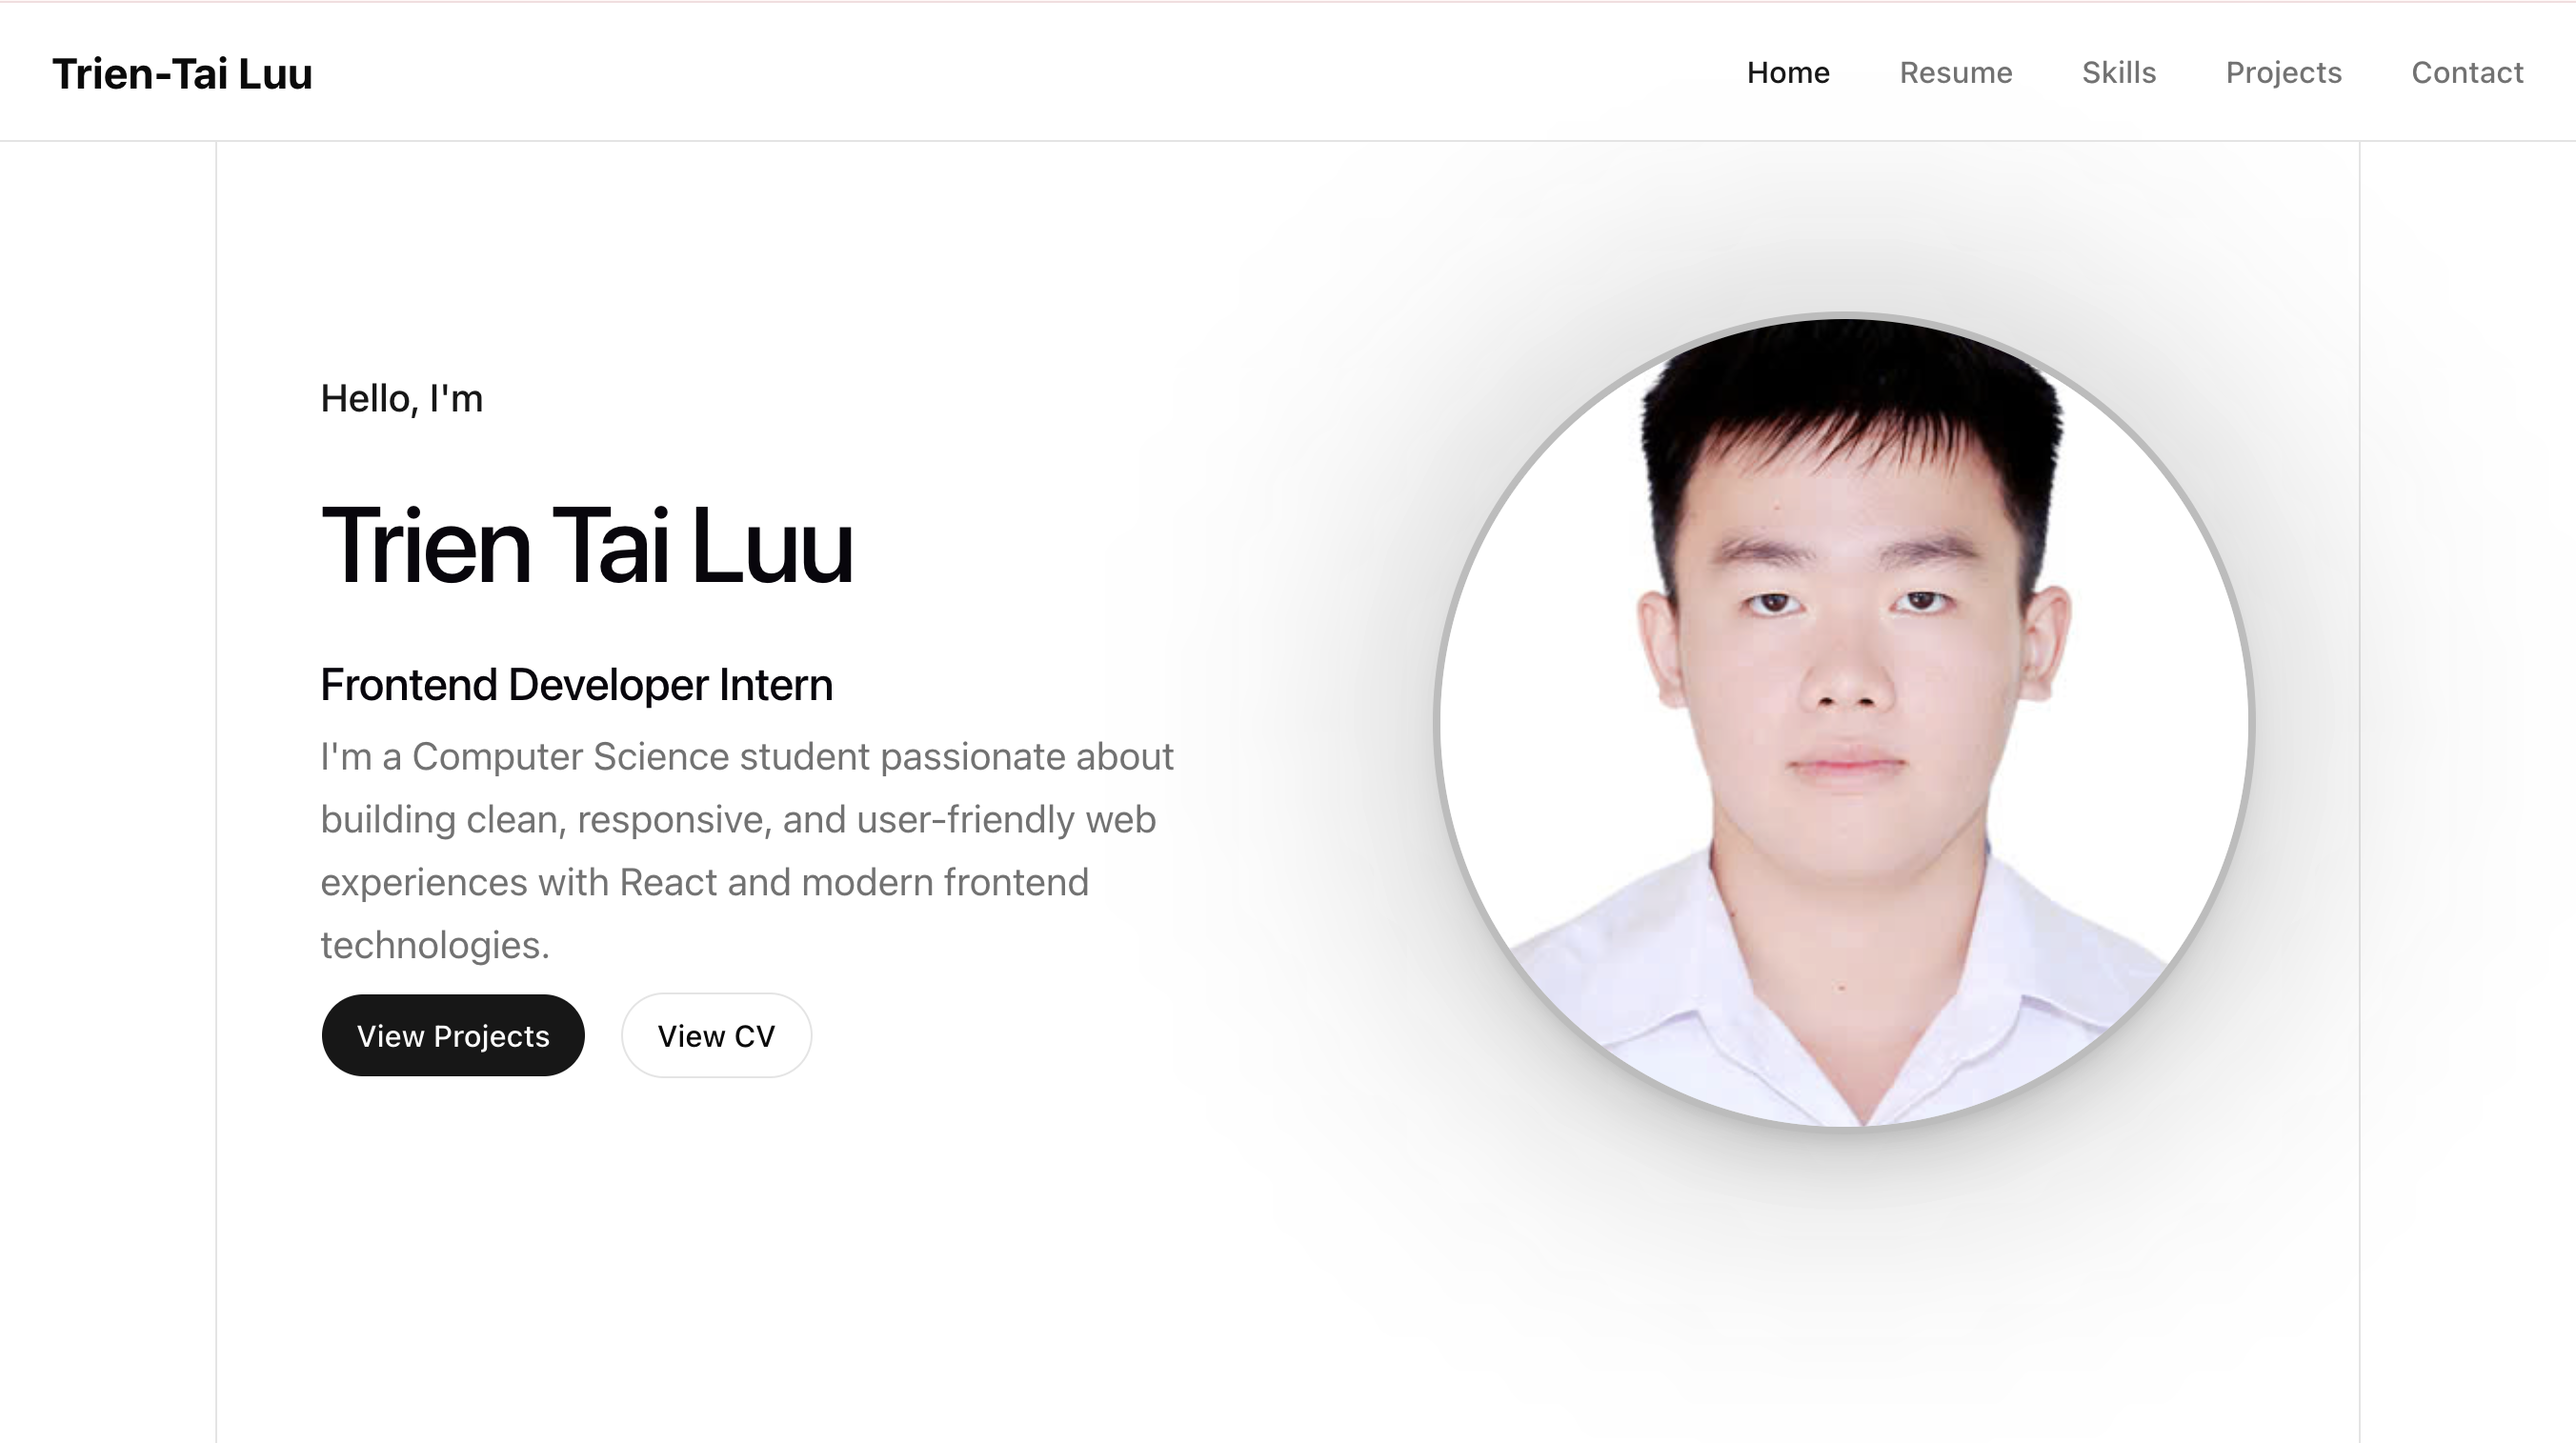
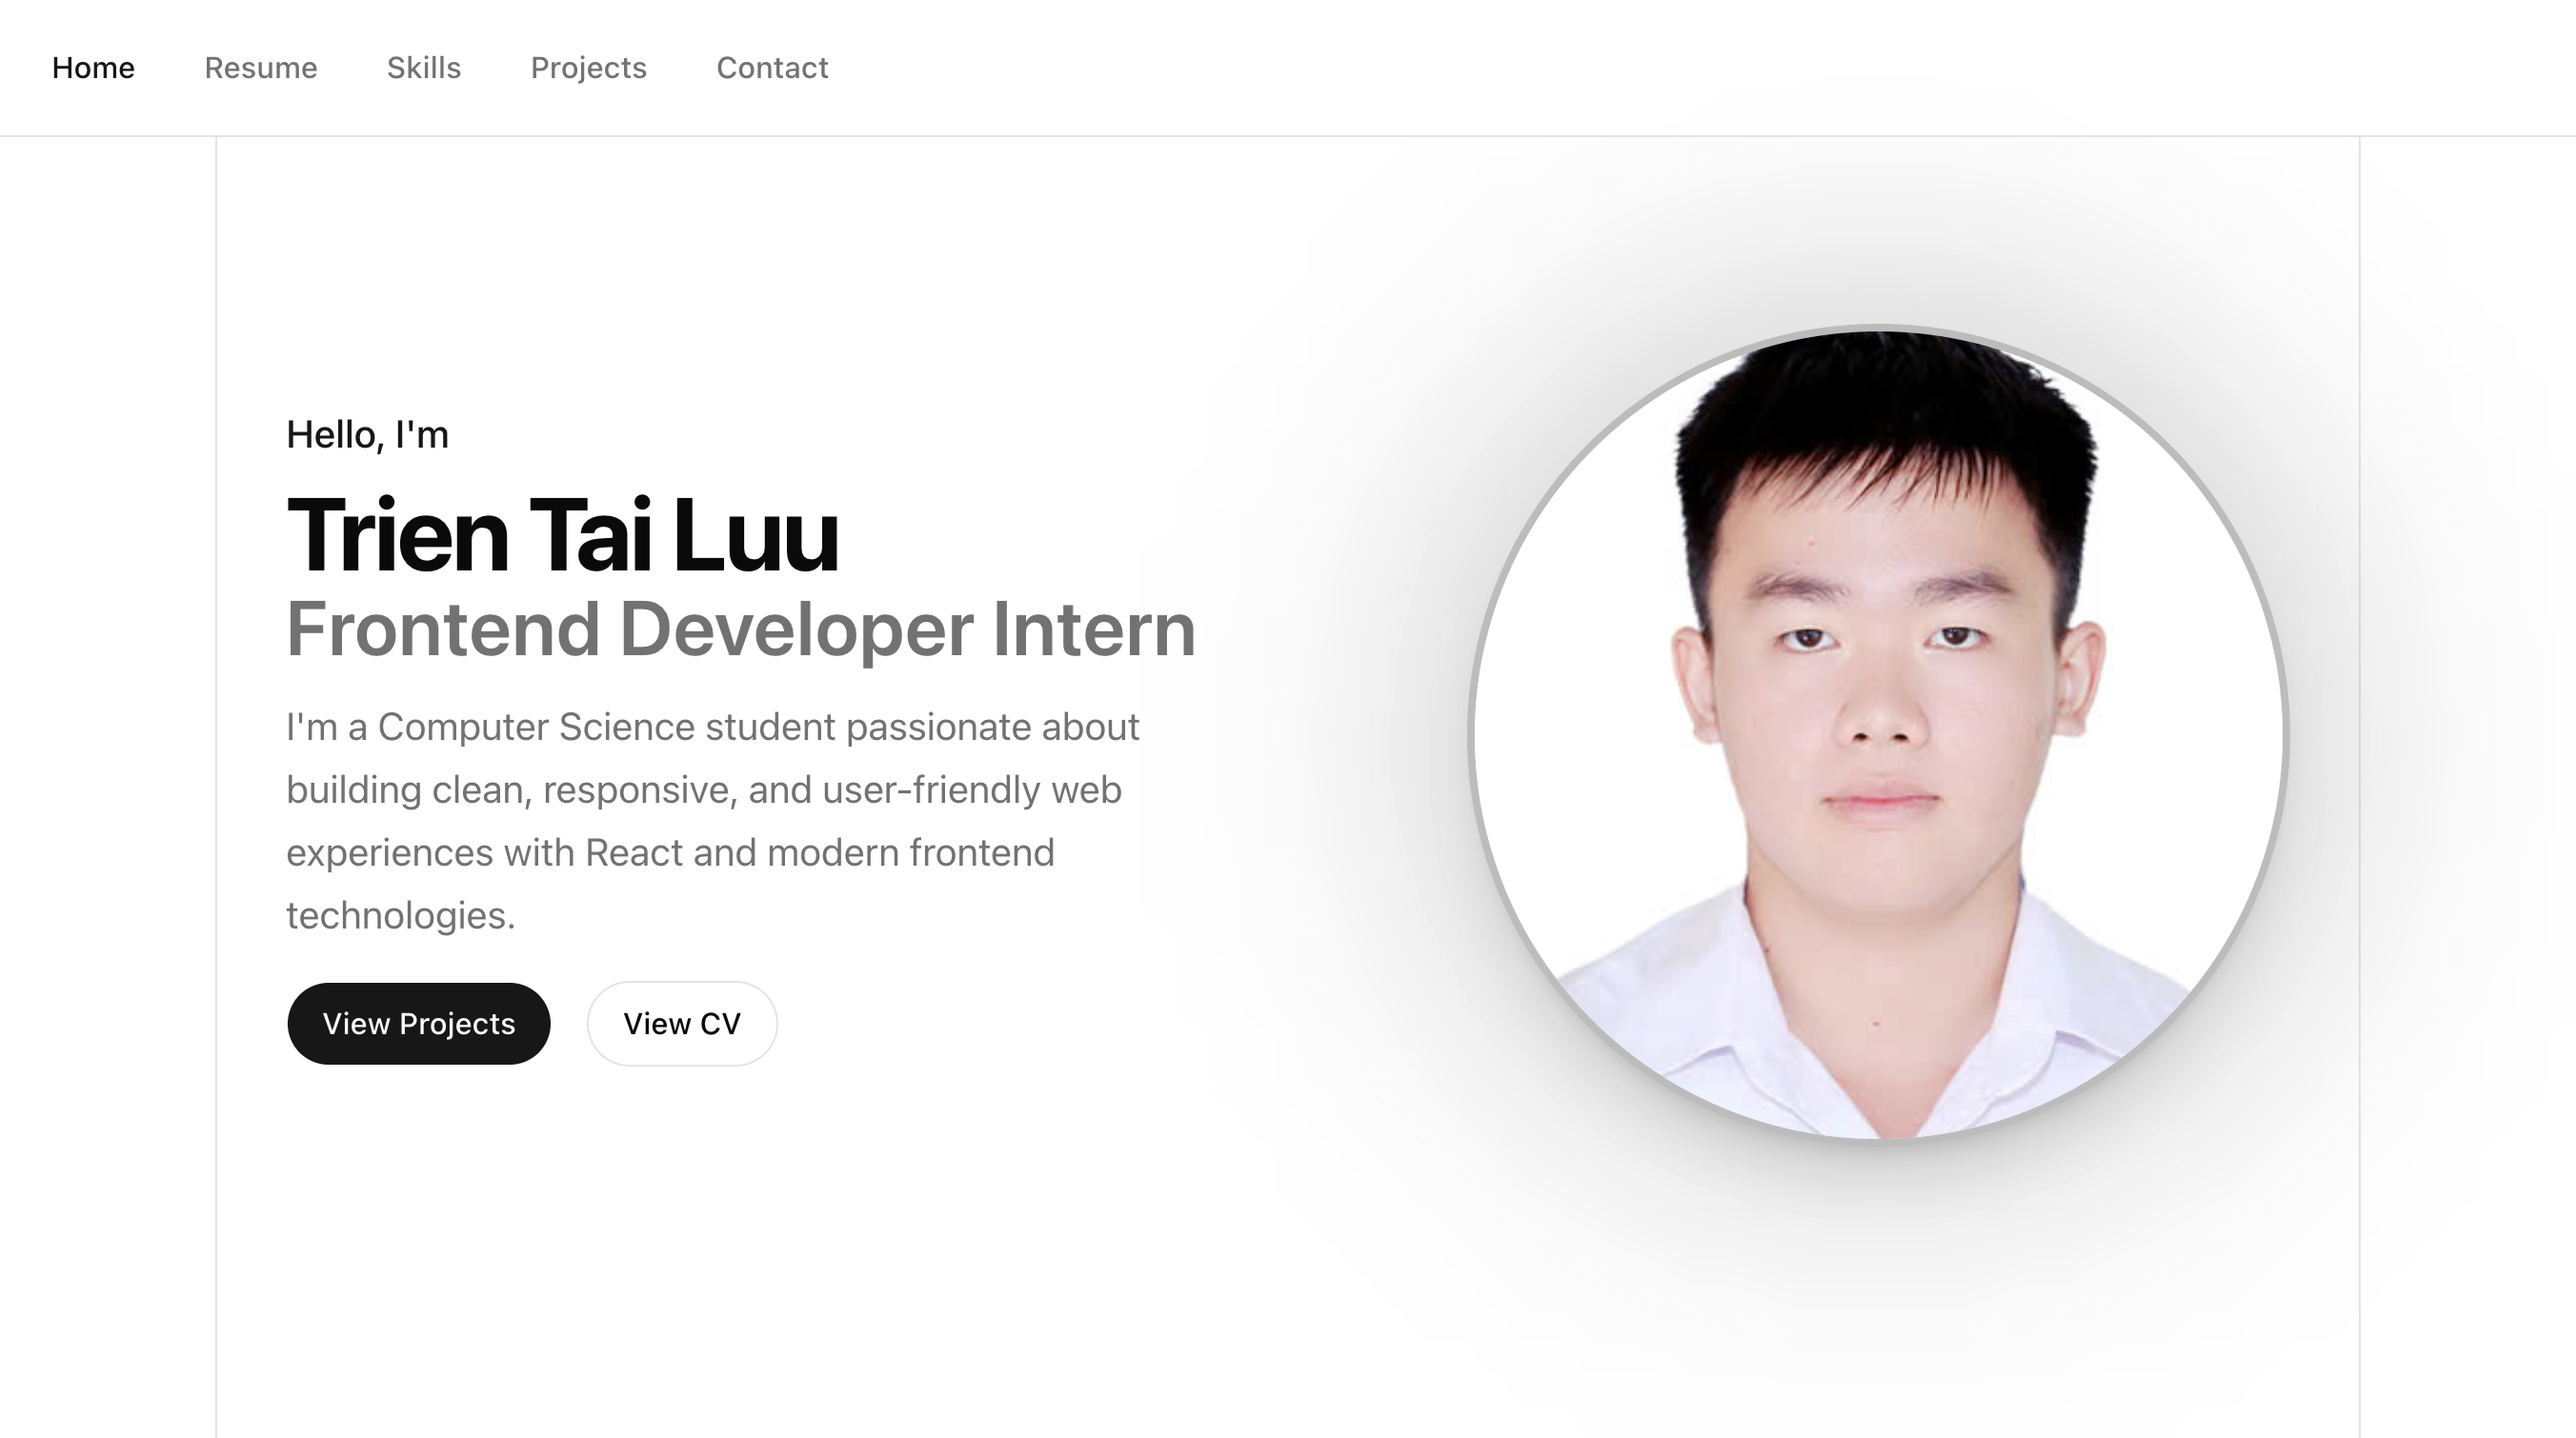
update README

diff --git a/README.md b/README.md
@@ -91,17 +91,15 @@ npm run preview
 
 ## Demo
 
-A public deployment for this portfolio has not been added yet.
-
-Repository: https://github.com/tailuutrien/portfolio
+Live Demo: https://tailuutrien.github.io/portfolio
 
 ## Screenshot
 
 ### Portfolio Preview
 
-![Portfolio Preview](./public/projects/portfolio.png)
-
-> You can add 1–2 more screenshots of the Home, Projects, or Contact pages here after deploying or capturing them locally.
+![Portfolio Preview](./public/screenShot/home.png)
+![Portfolio Preview](./public/screenShot/projects.png)
+![Portfolio Preview](./public/screenShot/mobile.png)
 
 ## Author
 
